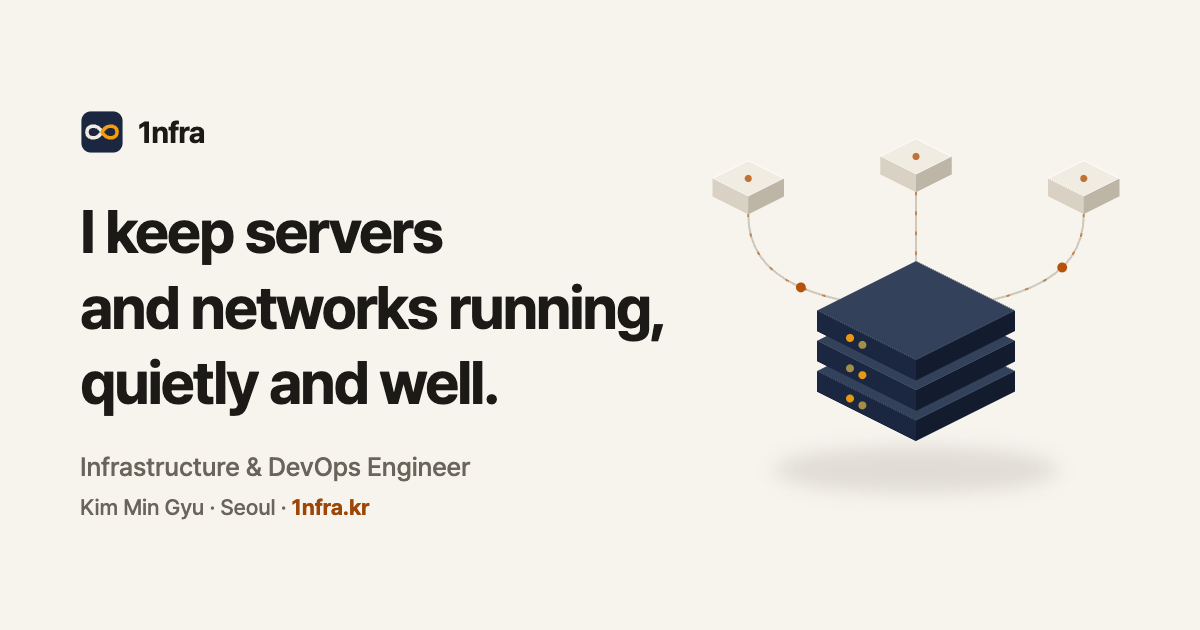
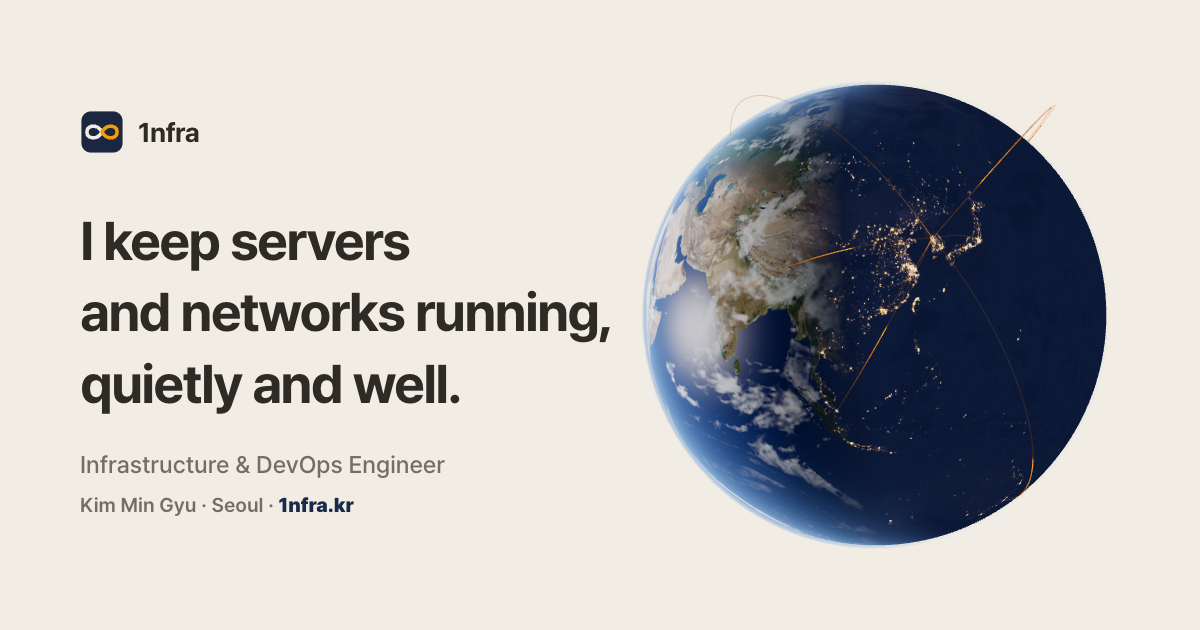
Warm paper and navy palette, globe behind the page, clearer certs
- Palette: warm paper background, navy button to match the globe and logo
- Desktop globe stays behind the lower sections, faded, instead of being cut at the hero edge
- Certs: row lines aligned, stronger headings and item text, more space between issuers
- Share images show the globe in the new colors

diff --git a/assets/css/styles.css b/assets/css/styles.css
@@ -1,13 +1,13 @@
 :root {
-  --paper: #fdfcfa;
-  --surface: #f7f4ee;
-  --ink: #1c1a17;
-  --ink-2: #3a362f;
-  --mute: #6b645b;
-  --line: #e5e0d6;
-  --line-2: #cfc9bc;
-  --amber: #9c4708;
-  --amber-dark: #7f3a0c;
+  --paper: #faf7f2;
+  --surface: #f2ede4;
+  --ink: #2e2a24;
+  --ink-2: #4a443b;
+  --mute: #756d61;
+  --line: #e7e0d6;
+  --line-2: #d3cabd;
+  --navy: #1b2a4a;
+  --navy-dark: #14213d;
 
 
   --font: 'Pretendard Variable', Pretendard, -apple-system, BlinkMacSystemFont, system-ui, sans-serif;
@@ -31,7 +31,7 @@ body {
 }
 a { color: inherit; text-decoration: none; }
 ul { list-style: none; }
-:focus-visible { outline: 2px solid var(--amber); outline-offset: 3px; border-radius: 6px; }
+:focus-visible { outline: 2px solid var(--navy); outline-offset: 3px; border-radius: 6px; }
 
 .skip-link { position: absolute; left: -10000px; }
 .skip-link:focus { position: fixed; top: 0; left: 0; background: var(--ink); color: var(--paper); padding: 12px 20px; z-index: 100; }
@@ -60,7 +60,7 @@ ul { list-style: none; }
   min-height: calc(100svh - 62px);
   display: flex; flex-direction: column; justify-content: center;
   padding-block: 72px 64px;
-  background: var(--surface); box-shadow: 0 0 0 100vmax var(--surface); clip-path: inset(0 -100vmax);
+  border-image: linear-gradient(var(--surface), var(--surface)) fill 0 / 0 / 0 100vmax;
 }
 .hero h1 {
   font-size: clamp(30px, 4.6vw, 44px); font-weight: 700;
@@ -78,8 +78,8 @@ ul { list-style: none; }
   transition: background .15s, transform .1s, box-shadow .15s;
 }
 .btn:active { transform: scale(.98); }
-.btn.primary { background: var(--amber); color: #fff8f0; }
-.btn.primary:hover { background: var(--amber-dark); }
+.btn.primary { background: var(--navy); color: var(--paper); }
+.btn.primary:hover { background: var(--navy-dark); }
 .btn.ghost { background: var(--paper); color: var(--ink-2); box-shadow: inset 0 0 0 1px var(--line-2); }
 .btn.ghost:hover { box-shadow: inset 0 0 0 1px var(--ink-2); }
 
@@ -95,7 +95,7 @@ ul { list-style: none; }
 .sec-h h2 { font-size: 28px; font-weight: 700; letter-spacing: -0.03em; line-height: 1.35; text-wrap: balance; }
 
 .cols { display: grid; gap: 32px 40px; }
-.cols .col { display: flex; flex-direction: column; gap: 32px; }
+.cols .col { display: flex; flex-direction: column; gap: 44px; }
 
 .stack { display: grid; grid-template-columns: var(--k) 1fr; border-top: 2px solid var(--ink); }
 .stack dt, .stack dd { padding: 13px 0; border-bottom: 1px solid var(--line); }
@@ -103,7 +103,7 @@ ul { list-style: none; }
 .stack dd { font-size: 16px; font-weight: 600; }
 
 .group { border-top: 2px solid var(--ink); border-bottom: 1px solid var(--line); }
-.card-h { font-size: 15px; font-weight: 700; color: var(--ink); letter-spacing: -0.01em; padding: 14px 0 10px; }
+.card-h { font-size: 16px; font-weight: 700; color: var(--ink); letter-spacing: -0.01em; padding: 14px 0 10px; }
 
 .row { display: flex; align-items: baseline; gap: 16px; padding: 13px 0; border-top: 1px solid var(--line); }
 .row .v { flex: 1; min-width: 0; font-size: 16px; font-weight: 600; color: var(--ink); }
@@ -114,16 +114,16 @@ ul { list-style: none; }
 .did li { position: relative; padding-left: 13px; font-size: 14px; color: var(--mute); line-height: 1.75; }
 .did li::before { content: ''; position: absolute; left: 0; top: .78em; width: 3px; height: 3px; border-radius: 50%; background: var(--line-2); }
 
-.cert dl { display: grid; grid-template-columns: var(--k) 1fr; align-items: baseline; }
+.cert dl { display: grid; grid-template-columns: var(--k) 1fr; }
 .cert dt, .cert dd, .cert li { padding: 9px 0; border-top: 1px solid var(--line); }
-.cert dt { font-size: 13px; font-weight: 600; color: var(--mute); letter-spacing: 0.02em; font-variant-numeric: tabular-nums; }
-.cert dd, .cert li { font-size: 15px; font-weight: 500; color: var(--ink-2); line-height: 1.5; }
+.cert dt { font-size: 13px; line-height: 22px; font-weight: 500; color: var(--mute); letter-spacing: 0.02em; font-variant-numeric: tabular-nums; }
+.cert dd, .cert li { font-size: 15px; font-weight: 500; color: var(--ink); line-height: 1.5; }
 
 .links { border-top: 2px solid var(--ink); }
 .links a { display: flex; align-items: baseline; padding: 13px 0; border-bottom: 1px solid var(--line); }
 .links .lk { flex: none; width: var(--k); font-size: 14px; font-weight: 500; color: var(--mute); }
 .links .val { font-size: 16px; font-weight: 600; color: var(--ink); transition: color .15s; }
-.links a:hover .val { color: var(--amber); text-decoration: underline; text-underline-offset: 3px; }
+.links a:hover .val { color: var(--navy); text-decoration: underline; text-underline-offset: 3px; }
 
 .foot { border-top: 1px solid var(--line); }
 .foot .wrap { display: flex; justify-content: space-between; gap: 16px; padding-top: 28px; padding-bottom: 48px; font-size: 14px; color: var(--mute); }
@@ -164,6 +164,10 @@ ul { list-style: none; }
 
   .cols { grid-template-columns: repeat(2, minmax(0, 1fr)); }
   #career .cols { grid-template-columns: 1fr; }
+
+  /* the globe stays behind the whole page; globe.js fades it as the hero scrolls away */
+  .viz { position: fixed; left: 0; width: 100%; transform: none; }
+  .sec, .foot { position: relative; z-index: 1; }
 }
 
 @media (min-width: 1440px) {

diff --git a/en/index.html b/en/index.html
@@ -19,7 +19,7 @@
   <meta property="og:url" content="https://1nfra.kr/en/">
   <meta property="og:title" content="1nfra | Kim Min Gyu · Infrastructure & DevOps Engineer">
   <meta property="og:description" content="Multi-cloud infrastructure engineer working across Azure, AWS and NCP. Designs and runs Kubernetes, Linux and network infrastructure.">
-  <meta property="og:image" content="https://1nfra.kr/assets/images/og-image-en.png?v=1">
+  <meta property="og:image" content="https://1nfra.kr/assets/images/og-image-en.png?v=3">
   <meta property="og:image:width" content="1200">
   <meta property="og:image:height" content="630">
   <meta property="og:locale" content="en_US">
@@ -30,15 +30,15 @@
   <meta name="twitter:url" content="https://1nfra.kr/en/">
   <meta name="twitter:title" content="1nfra | Kim Min Gyu · Infrastructure & DevOps Engineer">
   <meta name="twitter:description" content="Multi-cloud infrastructure engineer working across Azure, AWS and NCP. Designs and runs Kubernetes, Linux and network infrastructure.">
-  <meta name="twitter:image" content="https://1nfra.kr/assets/images/og-image-en.png?v=1">
+  <meta name="twitter:image" content="https://1nfra.kr/assets/images/og-image-en.png?v=3">
 
-  <meta name="theme-color" content="#f7f4ee">
+  <meta name="theme-color" content="#f2ede4">
   <meta name="msapplication-TileColor" content="#1b2740">
 
   <link rel="preconnect" href="https://cdn.jsdelivr.net" crossorigin>
 
   <link rel="stylesheet" href="https://cdn.jsdelivr.net/gh/orioncactus/pretendard@v1.3.9/dist/web/variable/pretendardvariable-dynamic-subset.css" integrity="sha384-2nNKoOPayicGa+aRguOQuiZP+RqQ4G3jalfDeOgftkKD7zBM2gJXTwcFqCZltdv0" crossorigin="anonymous">
-  <link rel="stylesheet" href="/assets/css/styles.css?v=20">
+  <link rel="stylesheet" href="/assets/css/styles.css?v=22">
 
   <link rel="icon" type="image/svg+xml" href="/assets/images/favicon.svg?v=4">
   <link rel="icon" type="image/x-icon" href="/assets/images/favicon.ico?v=4" sizes="16x16 32x32 48x48">
@@ -246,6 +246,6 @@
 
   <script src="/assets/js/script.js?v=8"></script>
   <script type="importmap">{ "imports": { "three": "https://cdn.jsdelivr.net/npm/three@0.180.0/build/three.module.min.js" } }</script>
-  <script type="module">if (matchMedia('(min-width: 1024px), (min-width: 641px) and (min-height: 500px)').matches) import('/assets/js/globe.js?v=3');</script>
+  <script type="module">if (matchMedia('(min-width: 1024px), (min-width: 641px) and (min-height: 500px)').matches) import('/assets/js/globe.js?v=6');</script>
 </body>
 </html>

diff --git a/index.html b/index.html
@@ -20,7 +20,7 @@
   <meta property="og:url" content="https://1nfra.kr">
   <meta property="og:title" content="1nfra | 김민규 · Infrastructure & DevOps Engineer">
   <meta property="og:description" content="Azure, AWS, NCP 멀티 클라우드 인프라 엔지니어. Kubernetes, Linux, Network 인프라 설계 및 운영.">
-  <meta property="og:image" content="https://1nfra.kr/assets/images/og-image.png?v=3">
+  <meta property="og:image" content="https://1nfra.kr/assets/images/og-image.png?v=5">
   <meta property="og:image:width" content="1200">
   <meta property="og:image:height" content="630">
   <meta property="og:locale" content="ko_KR">
@@ -31,15 +31,15 @@
   <meta name="twitter:url" content="https://1nfra.kr">
   <meta name="twitter:title" content="1nfra | 김민규 · Infrastructure & DevOps Engineer">
   <meta name="twitter:description" content="Azure, AWS, NCP 멀티 클라우드 인프라 엔지니어. Kubernetes, Linux, Network 인프라 설계 및 운영.">
-  <meta name="twitter:image" content="https://1nfra.kr/assets/images/og-image.png?v=3">
+  <meta name="twitter:image" content="https://1nfra.kr/assets/images/og-image.png?v=5">
 
-  <meta name="theme-color" content="#f7f4ee">
+  <meta name="theme-color" content="#f2ede4">
   <meta name="msapplication-TileColor" content="#1b2740">
 
   <link rel="preconnect" href="https://cdn.jsdelivr.net" crossorigin>
 
   <link rel="stylesheet" href="https://cdn.jsdelivr.net/gh/orioncactus/pretendard@v1.3.9/dist/web/variable/pretendardvariable-dynamic-subset.css" integrity="sha384-2nNKoOPayicGa+aRguOQuiZP+RqQ4G3jalfDeOgftkKD7zBM2gJXTwcFqCZltdv0" crossorigin="anonymous">
-  <link rel="stylesheet" href="assets/css/styles.css?v=20">
+  <link rel="stylesheet" href="assets/css/styles.css?v=22">
 
   <link rel="icon" type="image/svg+xml" href="assets/images/favicon.svg?v=4">
   <link rel="icon" type="image/x-icon" href="assets/images/favicon.ico?v=4" sizes="16x16 32x32 48x48">
@@ -247,6 +247,6 @@
 
   <script src="assets/js/script.js?v=8"></script>
   <script type="importmap">{ "imports": { "three": "https://cdn.jsdelivr.net/npm/three@0.180.0/build/three.module.min.js" } }</script>
-  <script type="module">if (matchMedia('(min-width: 1024px), (min-width: 641px) and (min-height: 500px)').matches) import('/assets/js/globe.js?v=3');</script>
+  <script type="module">if (matchMedia('(min-width: 1024px), (min-width: 641px) and (min-height: 500px)').matches) import('/assets/js/globe.js?v=6');</script>
 </body>
 </html>

diff --git a/assets/js/globe.js b/assets/js/globe.js
@@ -1,5 +1,6 @@
 /* Hero globe: the Earth just past dusk over Korea, the night side in the site's navy, amber traffic running into Seoul.
-   Scrolling the hero away turns it toward Korea and brings it a little closer; dragging (or a flick) turns it and it eases back. */
+   Scrolling the hero away turns it toward Korea and brings it a little closer; dragging (or a flick) turns it and it eases back.
+   On desktop it stays behind the rest of the page, faded. */
 import * as THREE from 'three';
 
 const box = document.querySelector('.viz'), canvas = box.querySelector('canvas'), hero = document.querySelector('.hero');
@@ -78,7 +79,8 @@ const arcMat = new THREE.ShaderMaterial({
 });
 
 // camera: lat, lon, altitude (earth radii) from the top of the page to the hero leaving the screen; always looks at the centre.
-// Desktop: the canvas fills the hero band and the globe grows only so far, drifting right so it never sits under the copy.
+// Desktop: the canvas is fixed to the window and the globe grows only so far, drifting right so it never sits under the copy,
+// then fades so the sections below read over it.
 // Below 1024px the canvas is a square under the copy, so the globe only turns (growing would cut it at the box edge).
 const FROM = [22, 112, 4.2], TO = [33, 126, 2];
 const drag = { lat: 0, lon: 0, vlat: 0, vlon: 0, plat: 0, plon: 0, on: false, x: 0, y: 0, idle: 0 };
@@ -92,6 +94,7 @@ function place() {
   camera.position.copy(ll(clamp(lat, -60, 70), lon, 1 + FROM[2] * Math.pow(TO[2] / FROM[2], wide ? s : 0)));
   camera.lookAt(0, 0, 0);
   if (wide) camera.setViewOffset(W, H, -W * (.23 + .07 * s), 0, W, H); else camera.clearViewOffset();
+  box.style.opacity = wide ? 1 - .9 * clamp(s / .35) : ''; // faint before the sections below slide under it
 }
 
 const ray = new THREE.Raycaster(), ball = new THREE.Sphere(new THREE.Vector3(), 1), ndc = new THREE.Vector2();
@@ -145,7 +148,7 @@ renderer.setAnimationLoop(now => {
   if (Math.abs(drag.lon - view.lon) + Math.abs(drag.lat - view.lat) + Math.abs(t - view.s) > 1e-4) {
     view.lon += (drag.lon - view.lon) * e; view.lat += (drag.lat - view.lat) * e; view.s += (t - view.s) * e; dirty = true;
   }
-  if (!still) { arcMat.uniforms.time.value = now / 1000; dirty = true; }
+  if (!still && (view.s < .35 || !wide)) { arcMat.uniforms.time.value = now / 1000; dirty = true; } // no redraws behind the page once faded
   if (!dirty) return;
   place(); renderer.render(scene, camera); dirty = false;
 });

diff --git a/404.html b/404.html
@@ -5,10 +5,10 @@
   <meta name="viewport" content="width=device-width, initial-scale=1.0">
   <title>404 — 페이지를 찾을 수 없습니다 | 1nfra</title>
   <meta name="robots" content="noindex, nofollow">
-  <meta name="theme-color" content="#fdfcfa">
+  <meta name="theme-color" content="#faf7f2">
   <link rel="preconnect" href="https://cdn.jsdelivr.net" crossorigin>
   <link rel="stylesheet" href="https://cdn.jsdelivr.net/gh/orioncactus/pretendard@v1.3.9/dist/web/variable/pretendardvariable-dynamic-subset.css" integrity="sha384-2nNKoOPayicGa+aRguOQuiZP+RqQ4G3jalfDeOgftkKD7zBM2gJXTwcFqCZltdv0" crossorigin="anonymous">
-  <link rel="stylesheet" href="/assets/css/styles.css?v=16">
+  <link rel="stylesheet" href="/assets/css/styles.css?v=22">
   <link rel="icon" type="image/svg+xml" href="/assets/images/favicon.svg?v=4">
   <link rel="icon" type="image/x-icon" href="/assets/images/favicon.ico?v=4" sizes="16x16 32x32 48x48">
   <link rel="apple-touch-icon" href="/assets/images/apple-touch-icon.png?v=4">
